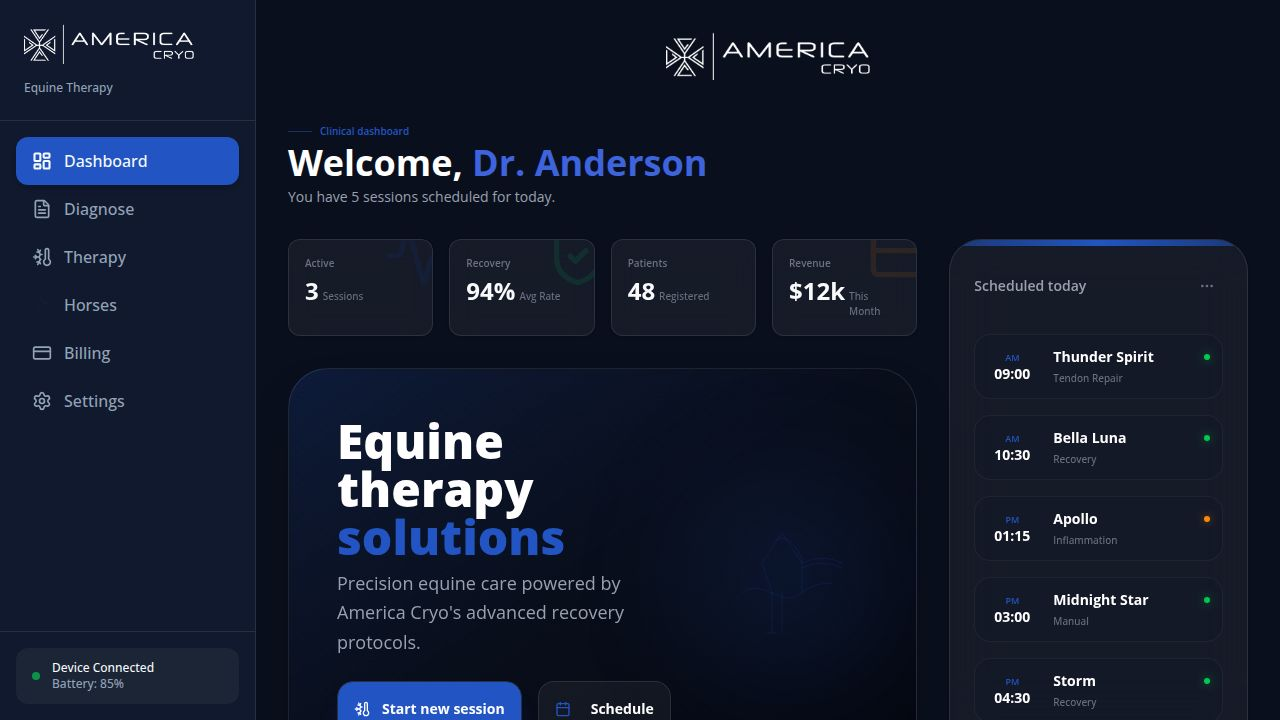
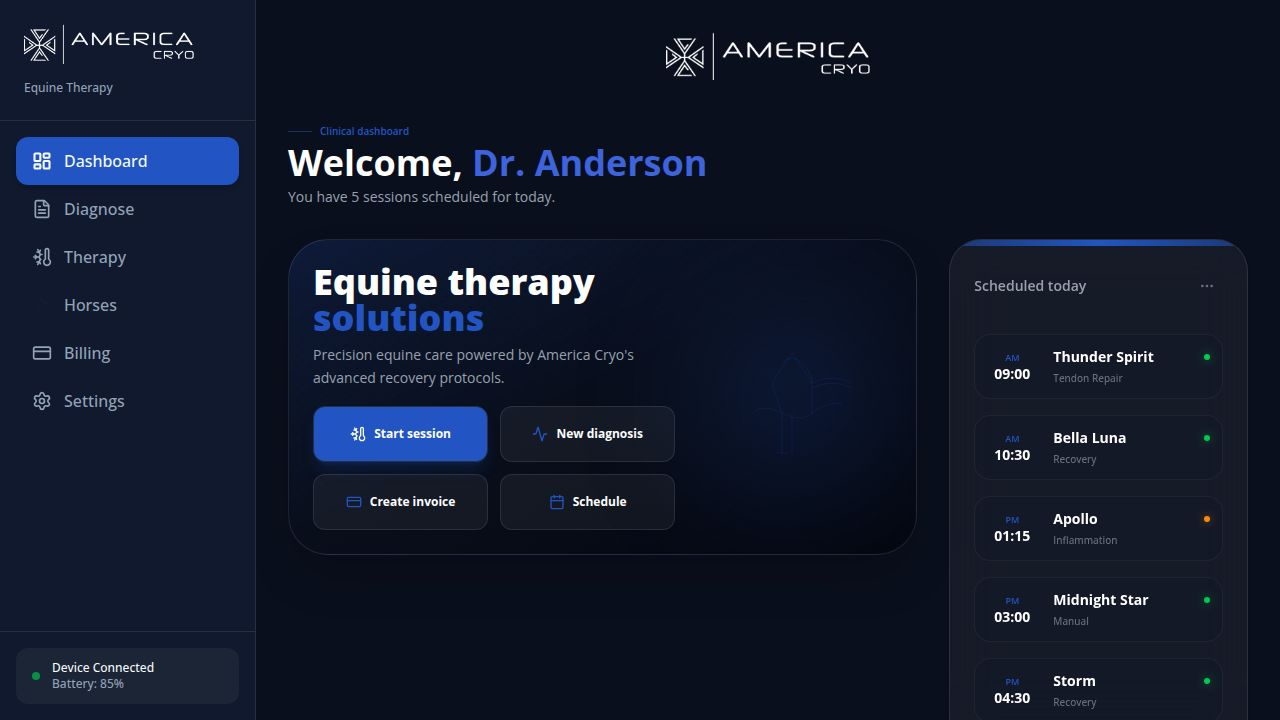
Improve dashboard layout by reducing padding and redesigning buttons
Update the dashboard hero section with reduced padding and a 2x2 grid of actionable buttons, adjusting font sizes and button heights for a more compact and efficient interface.

Replit-Commit-Author: Agent
Replit-Commit-Session-Id: c12ee141-e0dc-4c62-ab8a-d1c2e0aec3da
Replit-Commit-Checkpoint-Type: full_checkpoint
Replit-Commit-Event-Id: 288f18d1-77fe-4c31-9a9f-9bef2573d718
Replit-Commit-Screenshot-Url: https://storage.googleapis.com/screenshot-production-us-central1/ae2f9a35-1080-45a9-9c55-8bf065662328/c12ee141-e0dc-4c62-ab8a-d1c2e0aec3da/ATVKCdp
Replit-Helium-Checkpoint-Created: true

diff --git a/client/src/pages/Dashboard.tsx b/client/src/pages/Dashboard.tsx
@@ -105,41 +105,41 @@ export default function Dashboard() {
           {/* Hero Action Card */}
           <div className="relative rounded-[2.5rem] overflow-hidden bg-gradient-to-br from-primary/20 via-[#0a0f1d] to-[#050810] border border-white/10 shadow-2xl">
             <div className="absolute inset-0 bg-[url('https://www.transparenttextures.com/patterns/carbon-fibre.png')] opacity-10 pointer-events-none" />
-            <div className="p-8 md:p-12 relative flex flex-col md:flex-row items-center gap-8">
-              <div className="flex-1 space-y-6">
+            <div className="p-4 md:p-6 relative flex flex-col md:flex-row items-center gap-6">
+              <div className="flex-1 space-y-4">
                 <div className="space-y-2 text-center md:text-left">
-                  <h2 className="text-4xl md:text-5xl font-extrabold tracking-tight leading-none text-left">
+                  <h2 className="text-3xl md:text-4xl font-extrabold tracking-tight leading-none text-left">
                     Equine therapy <br/><span className="text-primary">solutions</span>
                   </h2>
-                  <p className="text-gray-400 text-sm md:text-lg max-w-md leading-relaxed text-left">
+                  <p className="text-gray-400 text-xs md:text-sm max-w-md leading-relaxed text-left">
                     Precision equine care powered by America Cryo's advanced recovery protocols.
                   </p>
                 </div>
-                <div className="grid grid-cols-1 sm:grid-cols-2 gap-4 w-full">
+                <div className="grid grid-cols-2 gap-3 w-full">
                   <Link href="/treatment">
-                    <Button className="w-full h-16 bg-primary hover:bg-primary/90 text-white rounded-2xl font-bold shadow-xl shadow-primary/20 flex items-center justify-center gap-3 active:scale-95 transition-all">
-                      <ThermometerSnowflake className="w-6 h-6" />
+                    <Button className="w-full h-14 bg-primary hover:bg-primary/90 text-white rounded-xl font-bold shadow-lg shadow-primary/20 flex items-center justify-center gap-2 active:scale-95 transition-all text-xs">
+                      <ThermometerSnowflake className="w-5 h-5" />
                       Start session
                     </Button>
                   </Link>
                   <Link href="/diagnose">
-                    <Button variant="outline" className="w-full h-16 border-white/10 bg-white/5 hover:bg-white/10 text-white rounded-2xl font-bold active:scale-95 transition-all flex items-center justify-center gap-3">
-                      <Activity className="w-6 h-6 text-primary" />
+                    <Button variant="outline" className="w-full h-14 border-white/10 bg-white/5 hover:bg-white/10 text-white rounded-xl font-bold active:scale-95 transition-all flex items-center justify-center gap-2 text-xs">
+                      <Activity className="w-5 h-5 text-primary" />
                       New diagnosis
                     </Button>
                   </Link>
                   <Link href="/billing">
-                    <Button variant="outline" className="w-full h-16 border-white/10 bg-white/5 hover:bg-white/10 text-white rounded-2xl font-bold active:scale-95 transition-all flex items-center justify-center gap-3">
-                      <CreditCard className="w-6 h-6 text-primary" />
+                    <Button variant="outline" className="w-full h-14 border-white/10 bg-white/5 hover:bg-white/10 text-white rounded-xl font-bold active:scale-95 transition-all flex items-center justify-center gap-2 text-xs">
+                      <CreditCard className="w-5 h-5 text-primary" />
                       Create invoice
                     </Button>
                   </Link>
                   <Button 
                     onClick={() => setIsScheduleOpen(true)}
                     variant="outline" 
-                    className="w-full h-16 border-white/10 bg-white/5 hover:bg-white/10 text-white rounded-2xl font-bold active:scale-95 transition-all flex items-center justify-center gap-3"
+                    className="w-full h-14 border-white/10 bg-white/5 hover:bg-white/10 text-white rounded-xl font-bold active:scale-95 transition-all flex items-center justify-center gap-2 text-xs"
                   >
-                    <Calendar className="w-6 h-6 text-primary" />
+                    <Calendar className="w-5 h-5 text-primary" />
                     Schedule
                   </Button>
                 </div>
